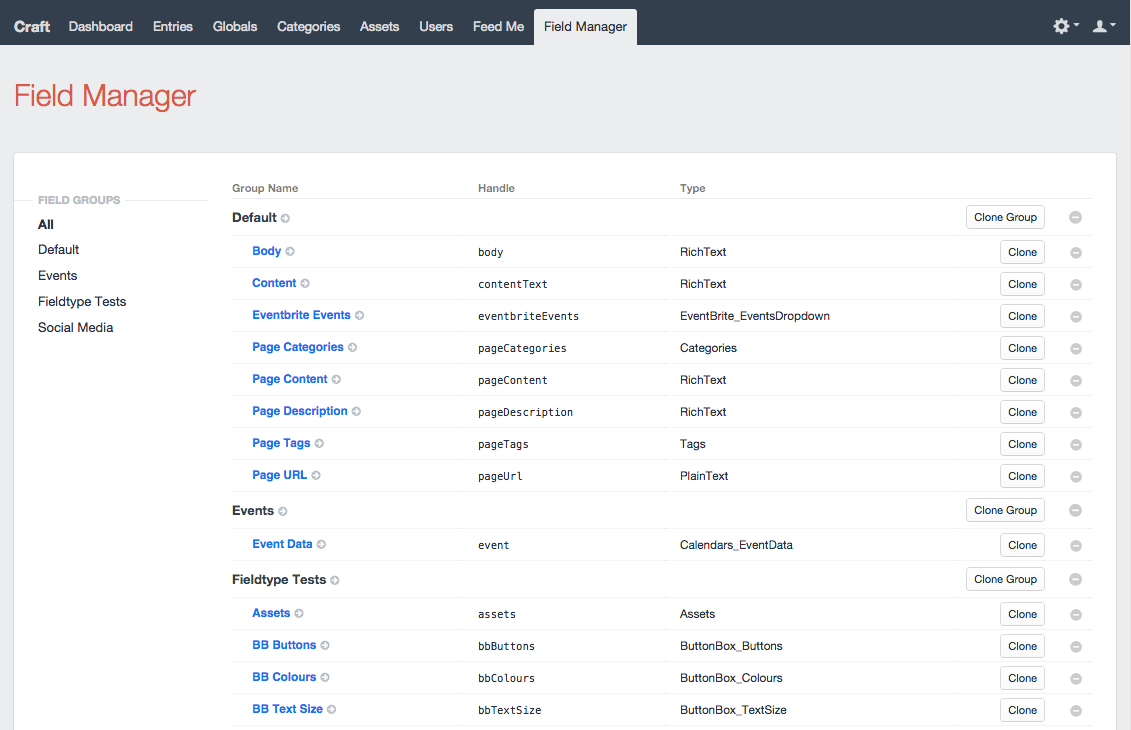
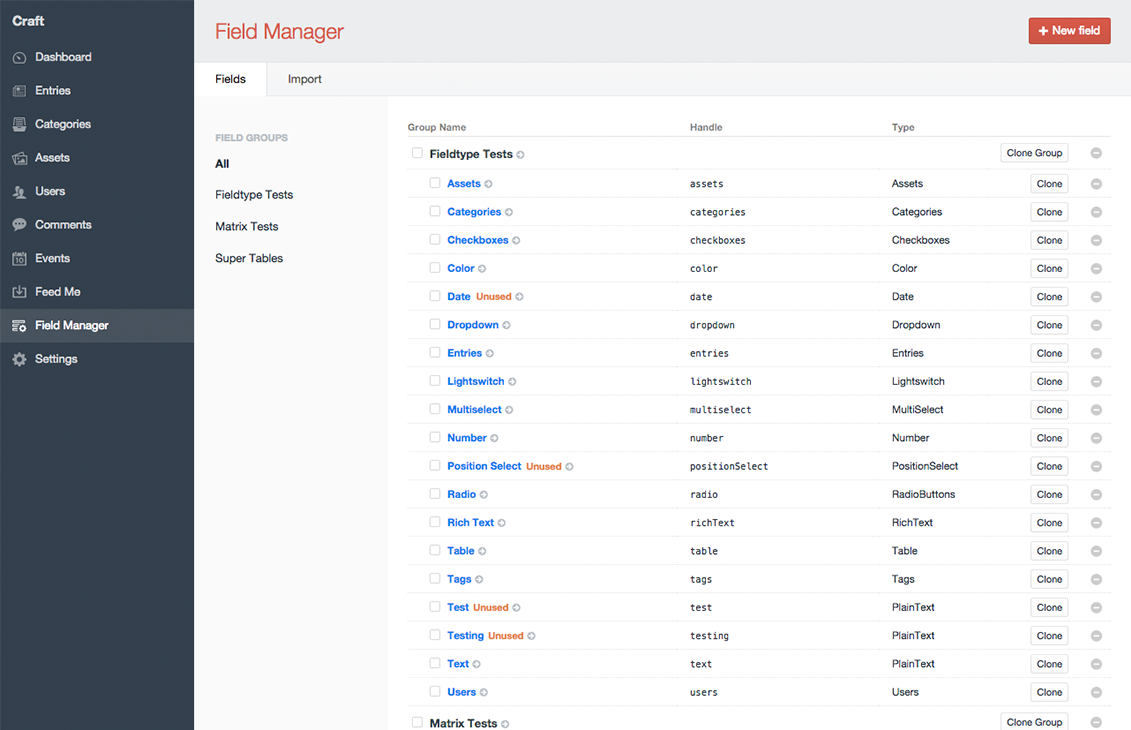
readme updates

diff --git a/README.md b/README.md
@@ -29,6 +29,18 @@ One thing to note for field group cloning, is that fields are required to have u
 You may also set this yourself if you choose to, using the `Prefix` field when cloning a field group. Please note that it needs to be a valid handle (no spaces, no hyphens, underscores only).
 
 
+## Export
+
+You can export multiple fields, including their groups by simply using the checkboxes against each field or field group. The fields will be combined into a JSON document and downloaded through your browser. You can store this for later, or use the contents for your import.
+
+
+## Import
+
+Using the Import tab, you paste in your JSON file contents that you created through Field Managers export process. Once done so, you can configure the which fields to import, which group to add them to, and their name/handle.
+
+<img src="https://raw.githubusercontent.com/engram-design/FieldManager/master/screenshots/import.png" />
+
+
 ## Supported FieldTypes
 
 **Craft**
